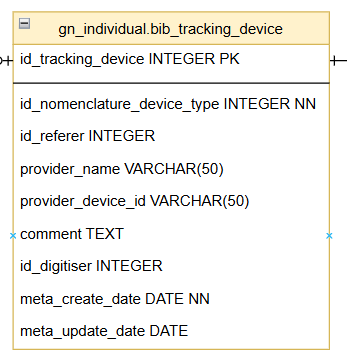
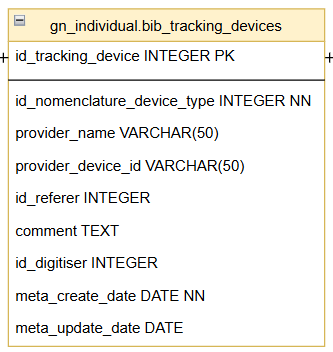
doc: Chane setting_up_date into install_date in t_individual_deployments

Changed region(s): [[0.0, 0.0, 1.0, 1.0]]

diff --git a/cahier-des-charges/Cross-DBio-CDC_suivi-individus.md b/cahier-des-charges/Cross-DBio-CDC_suivi-individus.md
@@ -38,11 +38,11 @@
       - [`gn_individual.bib_laboratories`](#gn_individualbib_laboratories)
     - [Captures et équipement d'individus](#captures-et-équipement-dindividus)
       - [`gn_individual.t_captures`](#gn_individualt_captures)
-      - [`gn_individual.t_individual_capture_reports`](#gn_individualt_individual_capture_reports)
+      - [`gn_individual.t_individual_capture_observations`](#gn_individualt_individual_capture_observations)
       - [`gn_individual.cor_role_captures`](#gn_individualcor_role_captures)
       - [`gn_individual.t_individual_deployments`](#gn_individualt_individual_deployments)
     - [Bibliothèque de matériel](#bibliothèque-de-matériel)
-      - [`gn_individual.bib_tracking_device`](#gn_individualbib_tracking_device)
+      - [`gn_individual.bib_tracking_devices`](#gn_individualbib_tracking_devices)
     - [Observations faites par des dispositifs de suivi](#observations-faites-par-des-dispositifs-de-suivi)
     - [Modèle de données complet](#modèle-de-données-complet)
   - [Mise en relation avec le besoin initial](#mise-en-relation-avec-le-besoin-initial)
@@ -487,7 +487,7 @@ Nous faisons le choix de partir sur un nouveau modèle de données pour la gesti
 - d'associer plusieurs opérateurs à une capture. Nous réaliserons cela via la nouvelle table de correspondance `gn_individual.cor_role_captures`.
 - de définir plusieurs marquages ou balises par individu. Nous passerons alors par la création
   - de la table`gn_inidvidual.t_individual_deployments` pour la gestion des équipements par capture et par individu. Son modèle permet d'accuillir la nouvelle génération de collier GPS faisant office de marquage et de balise,
-  - de la table `gn_inidvidual.bib_tracking_device` pour l'enregistrement des balises disponibles pour l'équipement des individus.
+  - de la table `gn_inidvidual.bib_tracking_devices` pour l'enregistrement des balises disponibles pour l'équipement des individus.
 - d'associer un état des lieux/constat (état physiologique de l'animal, biométrie, déroulement de l'anesthésie, ...) sur un individu pour un capture donnée. Nous créons pour cela la table `gn_individual.t_individual_capture_reports`.
 
 *Schéma des tables associées à un évènement de capture* :
@@ -542,9 +542,9 @@ Table des déploiements d'équipements (dispositifs de suivi, marquage) sur un i
 | id_individual | INTEGER | FK, NOT NULL | Identifiant de l'individu concerné par le déploiement, lié au champ `id_individual` de la table `gn_monitoring.t_individuals` |
 | id_nomenclature_deployment_type | INTEGER | FK, NOT NULL, CHECK | Identifiant du type de déploiement (ex : boucle, collier, décoloration, peinture, dispositif de suivi) lié au champ `id_nomenclature` de la table `ref_nomenclatures.t_nomenclatures` |
 | id_nomenclature_deployment_location | INTEGER | FK, NOT NULL, CHECK | Identifiant du lieu du déploiement (ex : oreille droite, encolure, aile gauche, carapasse ...) lié au champ `id_nomenclature` de la table `ref_nomenclatures.t_nomenclatures` |
-| id_tracking_device | INTEGER | FK | Identifiant du dispositif de suivi déployé sur l'individu, lié au champ `id_tracking_device` de la table `gn_monitoring.bib_tracking_device` |
+| id_tracking_device | INTEGER | FK | Identifiant du dispositif de suivi déployé sur l'individu, lié au champ `id_tracking_device` de la table `gn_monitoring.bib_tracking_devices` |
 | marking_code | VARCHAR(100) | - | Caractéristique du marquage (ex : lettre, couleur, nom de la plûme décolorée ...) |
-| setting_up_date | DATE | NOT NULL | Date de mise en place de l'équipement (marquage ou dispositif de suivi). |
+| install_date | DATE | NOT NULL | Date de mise en place de l'équipement (marquage ou dispositif de suivi). |
 | removal_date | DATE | - | Date de retrait de l'équipement (marquage ou dispositif de suivi). |
 | comment | TEXT | - | Commentaires |
 | additional_data | JSONB | - | Données non génériques associées au déploiement. Ex : lieu-dit |
@@ -554,15 +554,15 @@ Table des déploiements d'équipements (dispositifs de suivi, marquage) sur un i
 
 ### Bibliothèque de matériel
 
-La bibiothèque `gn_monitoring.bib_tracking_device` permet de recenser les différents matériels de suivi : pièges photos, colliers GPS ...
+La bibiothèque `gn_monitoring.bib_tracking_devices` permet de recenser les différents matériels de suivi : pièges photos, colliers GPS ...
 
 Cette table permet d'associer une balise lors de l'équipement d'un individu, ou bien de définir un piège photo spécifique ou une balise spécifique comme role pour un relevé.  
 
-*Shéma de la table bib_tracking_device* :
+*Shéma de la table bib_tracking_devices* :
 
 ![Schéma bib_tracking_device](./images/materiel.png)
 
-#### `gn_individual.bib_tracking_device`
+#### `gn_individual.bib_tracking_devices`
 
 Bibiothèque pour le gestion des dispositifs de suivi.
 
@@ -650,8 +650,8 @@ Via les tableaux de correspondance suivant, nous validons que l'ensemble des don
 
 | Donnée initiale | Schéma / table | Champ | Explication |
 | :---- | :---- | :---- | :---- |
-| Type d’émetteur | gn_individual.bib_tracking_device | id_nomenclature_device_type | Les émetteurs font parties du matériel de suivi des individus |
-| Informations techniques : manufacturer, model, serial_number | gn_individual.bib_tracking_device | comment | |
+| Type d’émetteur | gn_individual.bib_tracking_devices | id_nomenclature_device_type | Les émetteurs font parties du matériel de suivi des individus |
+| Informations techniques : manufacturer, model, serial_number | gn_individual.bib_tracking_devices | comment | |
 | Date de pose | gn_individual.t_captures | date | Date de la capture associée au déploiement du matériel |
 | Géolocalisation lors de la pose | gn_individual.t_captures | geom_local, geom_4326 | Géolocalisation de la capture associée au déploiement du matériel |
 | Date de retrait | gn_individual.t_individual_deployments | removal_date |  |
